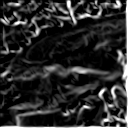
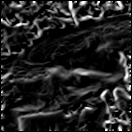
answer_41を修正 結果が一致しないため一旦とばす

diff --git a/Answer_41_50/answer_41.go b/Answer_41_50/answer_41.go
@@ -1,6 +1,7 @@
 package main
 
 import (
+	"fmt"
 	"image"
 	"image/color"
 	"image/jpeg"
@@ -9,18 +10,27 @@ import (
 	"os"
 )
 
-func color2gray(colorImage image.Image) *image.Gray {
-	grayImg := image.NewGray(colorImage.Bounds())
-	for y := 0; y < colorImage.Bounds().Size().Y; y++ {
-		for x := 0; x < colorImage.Bounds().Size().X; x++ {
-			ycbcr := colorImage.At(x, y)
-			r, g, b, _ := ycbcr.RGBA()
-			var graycolor color.Gray16
-			graycolor.Y = uint16(0.2126*float64(r) + 0.7152*float64(g) + 0.0722*float64(b))
-			grayImg.Set(x, y, graycolor)
+func colorImage2GrayArray(colorImage image.Image) [][]float64 {
+	W := colorImage.Bounds().Size().X
+	H := colorImage.Bounds().Size().Y
+
+	grayArray := make([][]float64, H)
+	for y := range grayArray {
+		grayArray[y] = make([]float64, W)
+	}
+
+	for y := 0; y < H; y++ {
+		for x := 0; x < W; x++ {
+			r32, g32, b32, _ := colorImage.At(x, y).RGBA()
+			r8 := float64(r32)
+			g8 := float64(g32)
+			b8 := float64(b32)
+			grayValue := 0.2126*r8 + 0.7152*g8 + 0.0722*b8
+			grayValue = (grayValue * 0xFF) / 0xFFFF
+			grayArray[y][x] = grayValue
 		}
 	}
-	return grayImg
+	return grayArray
 }
 
 func gaussian(x, y int, sigma float64) float64 {
@@ -52,89 +62,95 @@ func createGaussianFilter(w, h int, sigma float64) [][]float64 {
 	return gaussianMatrix
 }
 
-func filterGaussian(grayImage *image.Gray, gaussianMatrix [][]float64) *image.Gray {
-	gaussianImg := image.NewGray(grayImage.Bounds())
-
-	W := gaussianImg.Bounds().Size().X
-	H := gaussianImg.Bounds().Size().Y
+func filterGaussianArray(grayArray, gaussianMatrix [][]float64) [][]float64 {
+	W := len(grayArray)
+	H := len(grayArray[0][:])
 	GW := len(gaussianMatrix)
 	GH := len(gaussianMatrix[0][:])
 
-	for y := 0; y < H; y++ {
-		for x := 0; x < W; x++ {
+	filteredArray := make([][]float64, H)
+	for x := range filteredArray {
+		filteredArray[x] = make([]float64, W)
+	}
+	copy(filteredArray, grayArray)
+
+	for y := GH / 2; y < H-GH/2; y++ {
+		for x := GW / 2; x < W-GW/2; x++ {
+			// fmt.Println("x", x, "y", y)
 			filterledVal := 0.0
-			for gy := 0; gy < GH; gy++ {
-				for gx := 0; gx < GW; gx++ {
-					grayX := x + (gx - GW/2)
-					if grayX < 0 || grayX > W {
-						continue
-					}
-
-					grayY := y + (gy - GH/2)
-					if grayY < 0 || grayY > W {
-						continue
-					}
-
-					pixVal := grayImage.GrayAt(grayX, grayY).Y
-					filterledVal += float64(pixVal) * gaussianMatrix[gy][gx]
+			for gy := -GH / 2; gy <= GH/2; gy++ {
+				for gx := -GW / 2; gx <= GW/2; gx++ {
+					pixVal := grayArray[y+gy][x+gx]
+					filterledVal += float64(pixVal) * gaussianMatrix[gy+GH/2][gx+GW/2]
 				}
 			}
+
 			if filterledVal > 255.0 {
 				filterledVal = 255.0
 			}
-
-			grayColor := color.Gray{uint8(filterledVal)}
-			gaussianImg.Set(x, y, grayColor)
+			filteredArray[y][x] = filterledVal
 		}
 	}
-	return gaussianImg
+	return filteredArray
 }
 
-func fileterSobel(grayImage *image.Gray, sobelMatrix [3][3]int) *image.Gray {
-	sobelImage := image.NewGray(grayImage.Bounds())
+func fileterSobelArray(grayArray [][]float64, sobelMatrix [3][3]int) [][]float64 {
 
-	H := grayImage.Bounds().Size().Y
-	W := grayImage.Bounds().Size().X
+	H := len(grayArray)
+	W := len(grayArray[0])
+	sobelArray := make([][]float64, H)
+	for x := range sobelArray {
+		sobelArray[x] = make([]float64, W)
+	}
 
-	for y := 0; y < H; y++ {
-		for x := 0; x < W; x++ {
-			// 対象ピクセルを中心とした3x3ピクセルの画素値に対してSobelフィルタを適用する
-			sobelValue := 0
-			for filterY := 0; filterY < len(sobelMatrix); filterY++ {
-				for filterX := 0; filterX < len(sobelMatrix[0][:]); filterX++ {
-					// 対象ピクセルの位置を計算する
-					srcPointX := filterX + x - 1
-					srcPointY := filterY + y - 1
-					var pixVal int
-					if (srcPointX < 0) || (srcPointX >= W) ||
-						(srcPointY < 0) || (srcPointY >= H) {
-						// 0パディング
-						pixVal = 0
-					} else {
-						pixVal = int(grayImage.GrayAt(srcPointX, srcPointY).Y)
-					}
-
-					// Sobelフィルタ畳み込み
-					sobelValue += pixVal * sobelMatrix[filterY][filterX]
+	for y := 1; y < 131; y++ {
+		for x := 1; x < 131; x++ {
+			sobelValue := 0.0
+			for sy, row := range sobelMatrix {
+				for sx, sobel := range row {
+					sobelValue += float64(sobel) * grayArray[y+(sy-1)][x+(sx-1)]
 				}
 			}
 
-			if sobelValue < 0 {
-				sobelValue = 0
-			}
-			if sobelValue > 255 {
-				sobelValue = 255
+			if sobelValue < 0.0 {
+				sobelValue = 0.0
 			}
 
-			grayColorSobel := color.Gray{uint8(sobelValue)}
-			sobelImage.Set(x, y, grayColorSobel)
+			if sobelValue > 255.0 {
+				sobelValue = 255.0
+			}
+			sobelArray[y][x] = sobelValue
 		}
 	}
-	return sobelImage
+	return sobelArray
+}
+
+func grayArray2grayImage(grayArray [][]float64) *image.Gray {
+	H := len(grayArray)
+	W := len(grayArray[0][:])
+	grayImage := image.NewGray(image.Rect(0, 0, H, W))
+	for y, row := range grayArray {
+		for x, val := range row {
+			color := color.Gray{uint8(val)}
+			grayImage.Set(x, y, color)
+		}
+	}
+	return grayImage
+}
+
+func printPixVal(grayImage *image.Gray) {
+	W := grayImage.Bounds().Size().X
+	H := grayImage.Bounds().Size().Y
+	for y := 0; y < H; y++ {
+		for x := 0; x < W; x++ {
+			fmt.Printf("%03d ", grayImage.GrayAt(x, y).Y)
+		}
+		fmt.Printf("\n")
+	}
 }
 
 func main() {
-	file, err := os.Open("./../assets/imori.jpg")
+	file, err := os.Open("./../Question_41_50/imori.jpg")
 	defer file.Close()
 	if err != nil {
 		log.Fatal(err)
@@ -144,49 +160,89 @@ func main() {
 		log.Fatal(err)
 	}
 
-	grayImage := color2gray(jimg)
-	grayImageFile, err := os.Create("./answer_41_step1.jpg")
-	defer grayImageFile.Close()
-	if err != nil {
-		log.Fatal(err)
-	}
-	jpeg.Encode(grayImageFile, grayImage, &jpeg.Options{100})
+	grayArray := colorImage2GrayArray(jimg)
+
+	// grayImage := grayArray2grayImage(grayArray)
+	// grayImageFile, err := os.Create("./answer_41_step1.jpg")
+	// defer grayImageFile.Close()
+	// if err != nil {
+	// 	log.Fatal(err)
+	// }
+	// jpeg.Encode(grayImageFile, grayImage, &jpeg.Options{100})
 
 	gaussianMatrix := createGaussianFilter(5, 5, 1.4)
-	sum := 0.0
-	for _, row := range gaussianMatrix {
-		for _, val := range row {
-			sum += val
+
+	grayW := len(grayArray[0][:])
+	grayH := len(grayArray)
+	xPad := (len(gaussianMatrix[0][:]) / 2) * 2
+	yPad := (len(gaussianMatrix) / 2) * 2
+	paddingGrayArray := make([][]float64, grayH+yPad)
+	for x := range paddingGrayArray {
+		paddingGrayArray[x] = make([]float64, grayW+xPad)
+	}
+
+	for y, row := range paddingGrayArray {
+		for x := range row {
+			if y >= yPad/2 && y < grayH+yPad/2 && x >= xPad/2 && x < grayW+xPad/2 {
+				paddingGrayArray[y][x] = grayArray[y-yPad/2][x-xPad/2]
+			}
 		}
 	}
 
-	W := grayImage.Bounds().Size().X
-	H := grayImage.Bounds().Size().Y
-
-	grayGaussianImg := filterGaussian(grayImage, gaussianMatrix)
-	grayGaussianImageFile, err := os.Create("./answer_41_step2.jpg")
-	defer grayGaussianImageFile.Close()
-	if err != nil {
-		log.Fatal(err)
+	for y, row := range paddingGrayArray {
+		for x := range row {
+			if x < xPad/2 {
+				paddingGrayArray[y][x] = paddingGrayArray[y][xPad/2]
+			}
+			if x >= grayW+xPad/2 {
+				paddingGrayArray[y][x] = paddingGrayArray[y][grayW+xPad/2-1]
+			}
+		}
 	}
-	jpeg.Encode(grayGaussianImageFile, grayGaussianImg, &jpeg.Options{100})
+
+	for y, row := range paddingGrayArray {
+		for x := range row {
+			if y < yPad/2 {
+				paddingGrayArray[y][x] = paddingGrayArray[yPad/2][x]
+			}
+			if y >= grayH+yPad/2 {
+				paddingGrayArray[y][x] = paddingGrayArray[grayH+yPad/2-1][x]
+			}
+		}
+	}
+
+	// grayPaddingImageFile, err := os.Create("./answer_41_padding.jpg")
+	// defer grayPaddingImageFile.Close()
+	// if err != nil {
+	// 	log.Fatal(err)
+	// }
+	// jpeg.Encode(grayPaddingImageFile, grayArray2grayImage(paddingGrayArray), &jpeg.Options{100})
+
+	grayGaussianArray := filterGaussianArray(paddingGrayArray, gaussianMatrix)
+
+	// grayGaussianImg := grayArray2grayImage(grayGaussianArray)
+	// grayGaussianImageFile, err := os.Create("./answer_41_step2.jpg")
+	// defer grayGaussianImageFile.Close()
+	// if err != nil {
+	// 	log.Fatal(err)
+	// }
+	// jpeg.Encode(grayGaussianImageFile, grayGaussianImg, &jpeg.Options{100})
 
 	// 縦方向Sobelフィルタを作成
 	sobelFilterV := [3][3]int{
 		{1, 0, -1},
 		{2, 0, -2},
 		{1, 0, -1}}
-	// for _, row := range sobelFilterV {
-	// fmt.Println(row)
-	// }
 
-	grayGaussianSobelvImg := fileterSobel(grayGaussianImg, sobelFilterV)
-	grayGaussianSobelvImageFile, err := os.Create("./answer_41_step3v.jpg")
-	defer grayGaussianSobelvImageFile.Close()
-	if err != nil {
-		log.Fatal(err)
-	}
-	jpeg.Encode(grayGaussianSobelvImageFile, grayGaussianSobelvImg, &jpeg.Options{100})
+	grayGaussianSobelvArray := fileterSobelArray(grayGaussianArray, sobelFilterV)
+
+	// grayGaussianSobelvImg := grayArray2grayImage(grayGaussianSobelvArray)
+	// grayGaussianSobelvImageFile, err := os.Create("./answer_41_step3v.jpg")
+	// defer grayGaussianSobelvImageFile.Close()
+	// if err != nil {
+	// 	log.Fatal(err)
+	// }
+	// jpeg.Encode(grayGaussianSobelvImageFile, grayGaussianSobelvImg, &jpeg.Options{100})
 
 	// 横方向Sobelフィルタを作成
 	sobelFilterH := [3][3]int{
@@ -194,27 +250,32 @@ func main() {
 		{0, 0, 0},
 		{-1, -2, -1}}
 
-	grayGaussianSobelhImg := fileterSobel(grayGaussianImg, sobelFilterH)
-	grayGaussianSobelhImageFile, err := os.Create("./answer_41_step3h.jpg")
-	defer grayGaussianSobelhImageFile.Close()
-	if err != nil {
-		log.Fatal(err)
-	}
-	jpeg.Encode(grayGaussianSobelhImageFile, grayGaussianSobelhImg, &jpeg.Options{100})
+	grayGaussianSobelhArray := fileterSobelArray(grayGaussianArray, sobelFilterH)
 
-	edgeImage := image.NewGray(grayGaussianImg.Bounds())
-	tanImage := image.NewGray(grayGaussianImg.Bounds())
-	for y := 0; y < H; y++ {
-		for x := 0; x < W; x++ {
-			fx := grayGaussianSobelvImg.GrayAt(x, y).Y
-			fy := grayGaussianSobelhImg.GrayAt(x, y).Y
-			edgeValue := math.Hypot(float64(fx), float64(fy))
+	// grayGaussianSobelhImg := grayArray2grayImage(grayGaussianSobelhArray)
+	// grayGaussianSobelhImageFile, err := os.Create("./answer_41_step3h.jpg")
+	// defer grayGaussianSobelhImageFile.Close()
+	// if err != nil {
+	// 	log.Fatal(err)
+	// }
+	// jpeg.Encode(grayGaussianSobelhImageFile, grayGaussianSobelhImg, &jpeg.Options{100})
+
+	edgeArray := make([][]float64, len(grayGaussianSobelhArray))
+	tanArray := make([][]float64, len(grayGaussianSobelhArray))
+	for x := range edgeArray {
+		edgeArray[x] = make([]float64, len(grayGaussianSobelhArray[0][:]))
+		tanArray[x] = make([]float64, len(grayGaussianSobelhArray[0][:]))
+	}
+
+	for y, row := range edgeArray {
+		for x := range row {
+			fx := grayGaussianSobelvArray[y][x]
+			fy := grayGaussianSobelhArray[y][x]
+			edgeValue := math.Hypot(fx, fy)
 			if edgeValue > 255.0 {
 				edgeValue = 255.0
 			}
-			// fmt.Printf("%f ", edgeValue)
-			edgeGrayColor := color.Gray{uint8(edgeValue)}
-			edgeImage.Set(x, y, edgeGrayColor)
+			edgeArray[y][x] = edgeValue
 
 			tanValue := math.Atan(float64(fy) / float64(fx))
 			if tanValue > -0.4142 && tanValue <= 0.4142 {
@@ -226,12 +287,11 @@ func main() {
 			} else if tanValue > -2.4142 || tanValue <= -0.4142 {
 				tanValue = 135
 			}
-			tanGrayColor := color.Gray{uint8(tanValue)}
-			tanImage.Set(x, y, tanGrayColor)
+			tanArray[y][x] = tanValue
 		}
-		// fmt.Printf("\n")
 	}
 
+	edgeImage := grayArray2grayImage(edgeArray)
 	edgeImageFile, err := os.Create("./answer_41_1.jpg")
 	defer edgeImageFile.Close()
 	if err != nil {
@@ -239,6 +299,7 @@ func main() {
 	}
 	jpeg.Encode(edgeImageFile, edgeImage, &jpeg.Options{100})
 
+	tanImage := grayArray2grayImage(tanArray)
 	tanImageFile, err := os.Create("./answer_41_2.jpg")
 	defer tanImageFile.Close()
 	if err != nil {
